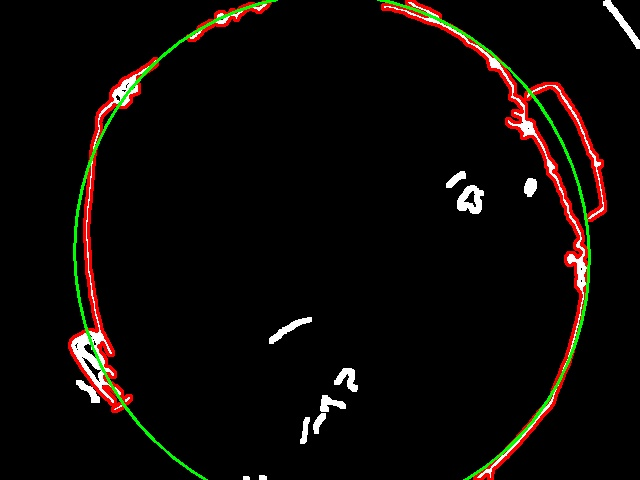
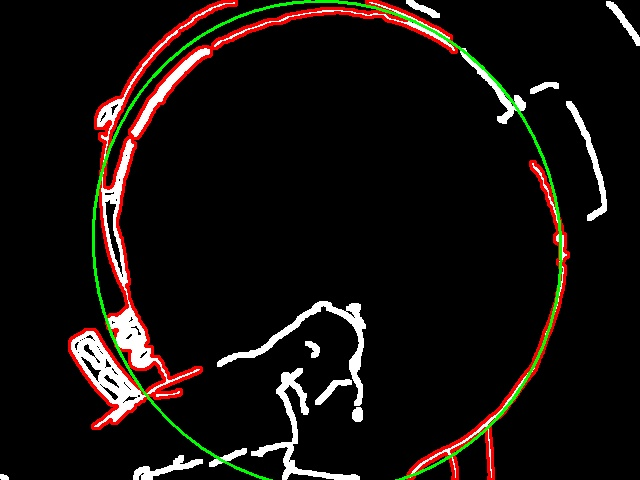
added elipsis estimation

diff --git a/elipse_estimator.py b/elipse_estimator.py
@@ -1,0 +1,68 @@
+import cv2
+import numpy as np
+
+# Funzione per filtrare contorni troppo corti
+def filter_short_contours(contours, min_length):
+    return [contour for contour in contours if len(contour) >= min_length]
+
+# Leggi l'immagine
+def load_and_preprocess_image(image_path):
+    img = cv2.imread(image_path, cv2.IMREAD_GRAYSCALE)
+    blurred = cv2.GaussianBlur(img, (7, 7), 0)
+    blurred = cv2.medianBlur(blurred, 7)
+    edges = cv2.Canny(blurred, threshold1=30, threshold2=80)
+    return edges
+
+# Funzione principale
+def process_and_visualize(image_path, points_path, min_length):
+    # Leggi l'immagine e i punti per rimuovere regioni
+    edges = load_and_preprocess_image(image_path)
+    with open(points_path, 'r') as file:
+        points = [tuple(map(int, line.strip().split(','))) for line in file]
+
+    # Rimuovi la regione specificata dai punti
+    def remove_region(image, points):
+        height, width = image.shape
+        bottom_left = (0, height)
+        points.append(bottom_left)
+        mask = np.zeros(image.shape, dtype=np.uint8)
+        points = np.array(points, dtype=np.int32)
+        cv2.fillPoly(mask, [points], 255)
+        return cv2.bitwise_and(image, image, mask=~mask)
+
+    edges = remove_region(edges, points)
+
+    # Dilatazione per chiudere i bordi
+    kernel = np.ones((3, 3), np.uint8)
+    edges = cv2.dilate(edges, kernel, iterations=2)
+
+    # Trova tutti i contorni
+    contours, _ = cv2.findContours(edges, cv2.RETR_EXTERNAL, cv2.CHAIN_APPROX_SIMPLE)
+
+    # Filtra i contorni troppo corti
+    filtered_contours = filter_short_contours(contours, min_length)
+
+    original_img = cv2.imread(image_path)
+
+    # Disegna i contorni filtrati (colorati di rosso)
+    output_img = cv2.cvtColor(edges, cv2.COLOR_GRAY2BGR)
+    cv2.drawContours(output_img, filtered_contours, -1, (0, 0, 255), 2)  # Colore rosso
+
+    # Combina tutti i contorni filtrati in un unico insieme di punti
+    all_points = np.vstack(filtered_contours) if filtered_contours else None
+
+    # Fitta un'ellisse sui punti combinati
+    if all_points is not None and len(all_points) >= 5:
+        ellipse = cv2.fitEllipse(all_points)
+        cv2.ellipse(output_img, ellipse, (0, 255, 0), 2)  # Ellisse verde
+
+    # Mostra l'immagine risultante
+    cv2.imshow('Contorni Filtrati e Ellisse', output_img)
+    cv2.waitKey(0)
+    cv2.destroyAllWindows()
+
+    # Salva l'immagine risultante (opzionale)
+    cv2.imwrite('output_filtered_ellisse.jpg', output_img)
+
+# Esegui il processo con un esempio
+process_and_visualize('images/frame_no_0614.png', 'points.txt', min_length=300)

diff --git a/elipse_estimator copy.py b/elipse_estimator copy.py
@@ -13,6 +13,12 @@ def load_and_preprocess_image(image_path):
     edges = cv2.Canny(blurred, threshold1=30, threshold2=80)
     return edges
 
+# Funzione per applicare una maschera circolare
+def apply_circular_mask(image, center, radius):
+    mask = np.zeros_like(image, dtype=np.uint8)
+    cv2.circle(mask, center, radius, 255, -1)  # Disegna un cerchio bianco sulla maschera nera
+    return cv2.bitwise_and(image, image, mask=mask)
+
 # Funzione principale
 def process_and_visualize(image_path, points_path, min_length):
     # Leggi l'immagine e i punti per rimuovere regioni
@@ -32,6 +38,11 @@ def process_and_visualize(image_path, points_path, min_length):
 
     edges = remove_region(edges, points)
 
+    # Applica una maschera circolare
+    center = (300, 60)  # Centro dell'immagine (modificabile)
+    radius = 150  # Raggio del cerchio (modificabile)
+    edges = apply_circular_mask(edges, center, radius)
+
     # Dilatazione per chiudere i bordi
     kernel = np.ones((3, 3), np.uint8)
     edges = cv2.dilate(edges, kernel, iterations=2)
@@ -41,6 +52,8 @@ def process_and_visualize(image_path, points_path, min_length):
 
     # Filtra i contorni troppo corti
     filtered_contours = filter_short_contours(contours, min_length)
+
+    original_img = cv2.imread(image_path)
 
     # Disegna i contorni filtrati (colorati di rosso)
     output_img = cv2.cvtColor(edges, cv2.COLOR_GRAY2BGR)
@@ -60,7 +73,9 @@ def process_and_visualize(image_path, points_path, min_length):
     cv2.destroyAllWindows()
 
     # Salva l'immagine risultante (opzionale)
-    cv2.imwrite('output_filtered_ellisse.jpg', output_img)
+    cv2.imwrite('output_filtered_ellisse_small.jpg', output_img)
 
 # Esegui il processo con un esempio
-process_and_visualize('images/frame_no_0645.png', 'points.txt', min_length=100)
+process_and_visualize('images/frame_no_0409.png', 'points.txt', min_length=100)
+
+# trovare regole per centro, raggio e min_length

diff --git a/README.md b/README.md
@@ -6,11 +6,10 @@ Project for the course of Signal Image Video regarding a simple segmenter to det
 
 
 IDEA:
-Usare kmeans per ottenere una segmentazione più dettagliata
-usare il canny per dedurre un ellisse. Questa viene dedotta a partire da un centro che viene fornito.
-    -> fare script per disegnare centro e ottenere ellisse, poi quando si dà conferma con un tasto, si aggiunge quel punto alla lista.
-
-    Obiettivo: avere o una lista di punti o un'equazione che descrive il movimento del centro
-
+Usare kmeans per ottenere una segmentazione più dettagliata. ✅
+usare il canny per dedurre un ellisse. Questa viene dedotta a partire da un centro che viene fornito. ✅
     
-A quel punto dovresti avere un'ellisse da dedurre per ogni frame. Usa l'ellisse per prendere solo una parte del kmeans.
+
+    DA FARE: avere o una lista di punti o un'equazione che descrive il movimento del centro. OTTENERE UNA SORTA DI EQUAZIONE per centro, radius e min_length, parametri dell'ellisse.
+    
+    DA FARE: unire ellisse e kmeans (usare roba in zona ellisse)
